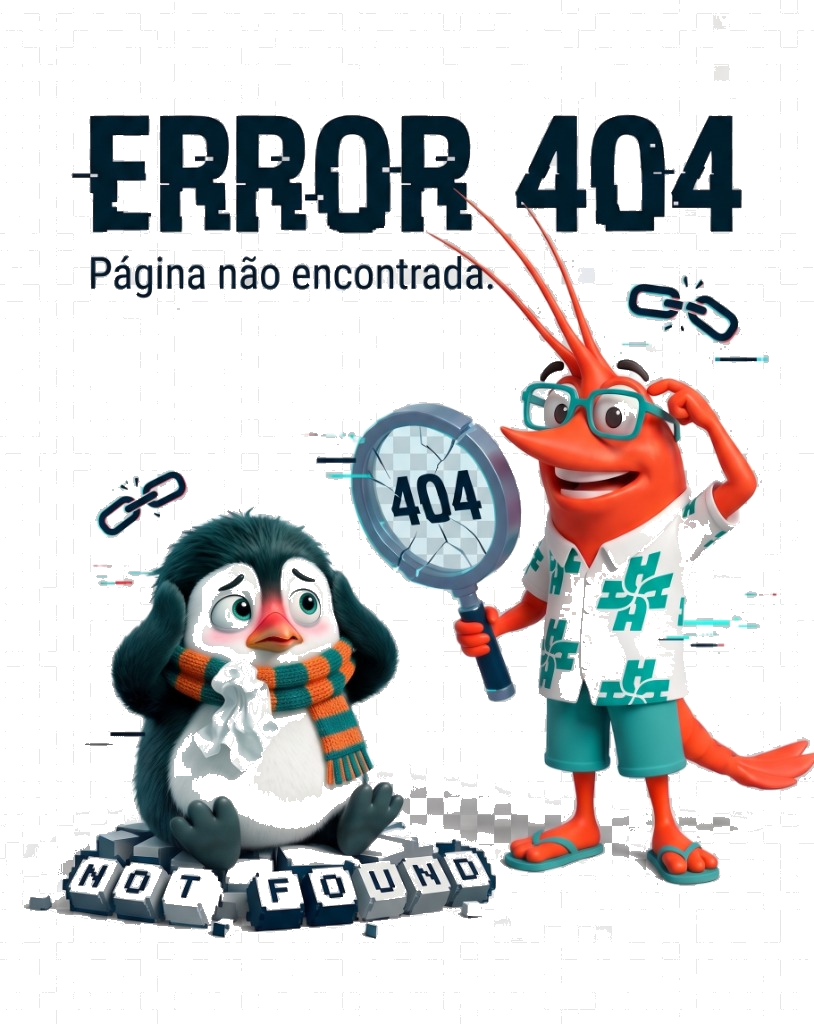
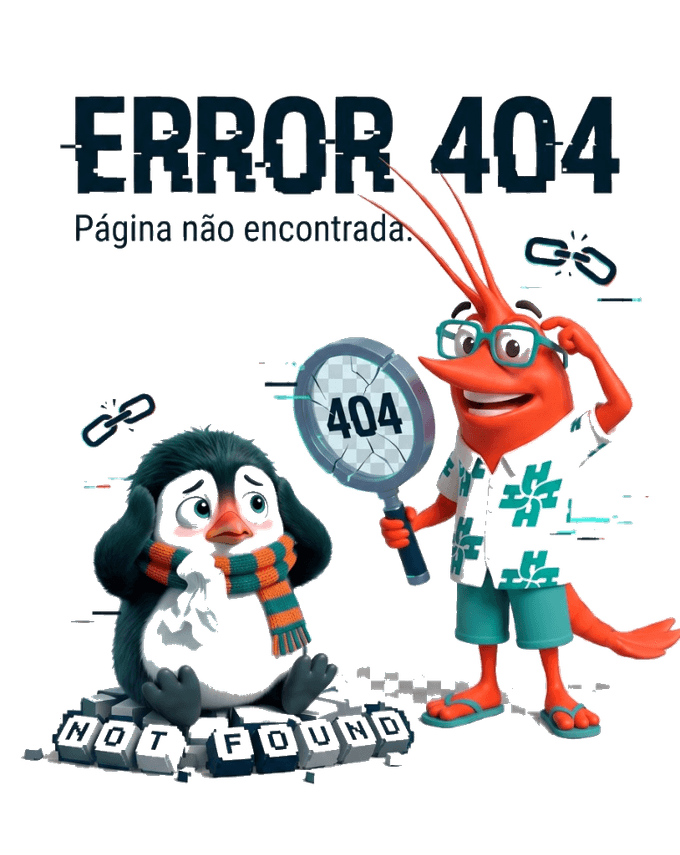
fix(storefront): tela 404 em tela cheia sem header de loja e imagens com fundo totalmente limpo

diff --git a/src/routes/_store.$storeSlug.busca.tsx b/src/routes/_store.$storeSlug.busca.tsx
@@ -155,22 +155,30 @@ function SearchPage() {
               <ProductGridSkeleton count={12} />
             </div>
           ) : productsList.length === 0 ? (
-            <div className="py-12 flex flex-col items-center justify-center text-center bg-card rounded-2xl border p-8">
+            <div className="py-8 px-4 flex flex-col items-center justify-center text-center bg-white dark:bg-card rounded-2xl border border-slate-100 dark:border-slate-800 shadow-sm animate-in fade-in duration-300">
               <img 
                 src={mascotNotFound} 
                 alt="Produto não encontrado" 
-                className="w-full max-w-[260px] sm:max-w-[300px] h-auto mb-6 drop-shadow-md object-contain" 
+                loading="eager"
+                fetchPriority="high"
+                decoding="sync"
+                className="w-full max-w-[300px] sm:max-w-[360px] h-auto mb-4 object-contain pointer-events-none drop-shadow-sm" 
               />
-              <h3 className="text-xl font-bold text-foreground mb-2">Produto não encontrado</h3>
-              <p className="text-sm text-muted-foreground max-w-md mb-6">
-                Não encontramos nenhum resultado para <span className="font-semibold text-foreground">"{q || "sua busca"}"</span>. Tente verificar a ortografia, buscar pela marca, princípio ativo ou dosagem.
+              {q && (
+                <div className="inline-flex items-center gap-1.5 px-3 py-1 bg-slate-100 dark:bg-slate-800 rounded-full text-xs font-semibold text-slate-700 dark:text-slate-300 mb-3">
+                  <span>Nenhum resultado para:</span>
+                  <span className="font-bold text-foreground">"{q}"</span>
+                </div>
+              )}
+              <p className="text-xs sm:text-sm text-muted-foreground max-w-md mb-6 leading-relaxed">
+                Tente verificar a ortografia, buscar pela marca, princípio ativo ou categoria do produto.
               </p>
-              <div className="flex flex-wrap items-center justify-center gap-2">
+              <div className="flex flex-wrap items-center justify-center gap-3">
                 <Button 
-                  variant="outline" 
                   onClick={() => navigate({ search: { q: "" } as any, replace: true })}
+                  className="bg-primary hover:bg-primary/90 text-primary-foreground font-bold px-6 py-2.5 rounded-xl shadow-sm transition"
                 >
-                  Limpar busca e ver todos
+                  Ver todos os produtos
                 </Button>
               </div>
             </div>

diff --git a/src/components/storefront/NotFound.tsx b/src/components/storefront/NotFound.tsx
@@ -14,15 +14,20 @@ export function NotFound({ type = "page", title, description }: NotFoundProps) {
   const altText = isProduct ? "Produto não encontrado" : "Página não encontrada - 404";
 
   return (
-    <div className="min-h-screen w-full bg-white flex flex-col items-center justify-center p-4 sm:p-6 text-center select-none">
-      <div className="max-w-md sm:max-w-lg w-full flex flex-col items-center justify-center animate-in fade-in zoom-in-95 duration-300">
+    <div className="fixed inset-0 z-[999999] bg-white flex flex-col items-center justify-center p-4 sm:p-6 text-center select-none overflow-y-auto">
+      <div className="max-w-md sm:max-w-lg w-full flex flex-col items-center justify-center animate-in fade-in zoom-in-95 duration-200 my-auto">
         <img 
           src={imgSrc} 
           alt={altText} 
+          loading="eager"
+          fetchPriority="high"
+          decoding="sync"
+          width={420}
+          height={528}
           className="w-full max-w-[340px] sm:max-w-[420px] h-auto object-contain drop-shadow-sm pointer-events-none"
         />
         
-        <div className="mt-8 flex flex-col items-center gap-3 w-full sm:w-auto">
+        <div className="mt-6 flex flex-col items-center gap-3 w-full sm:w-auto">
           <a 
             href="/login"
             className="bg-[#00B5AD] hover:bg-[#009E97] text-white font-bold text-base px-8 py-3.5 rounded-xl shadow-md transition-all hover:scale-105 active:scale-95 flex items-center justify-center gap-2.5 w-full sm:w-auto"
